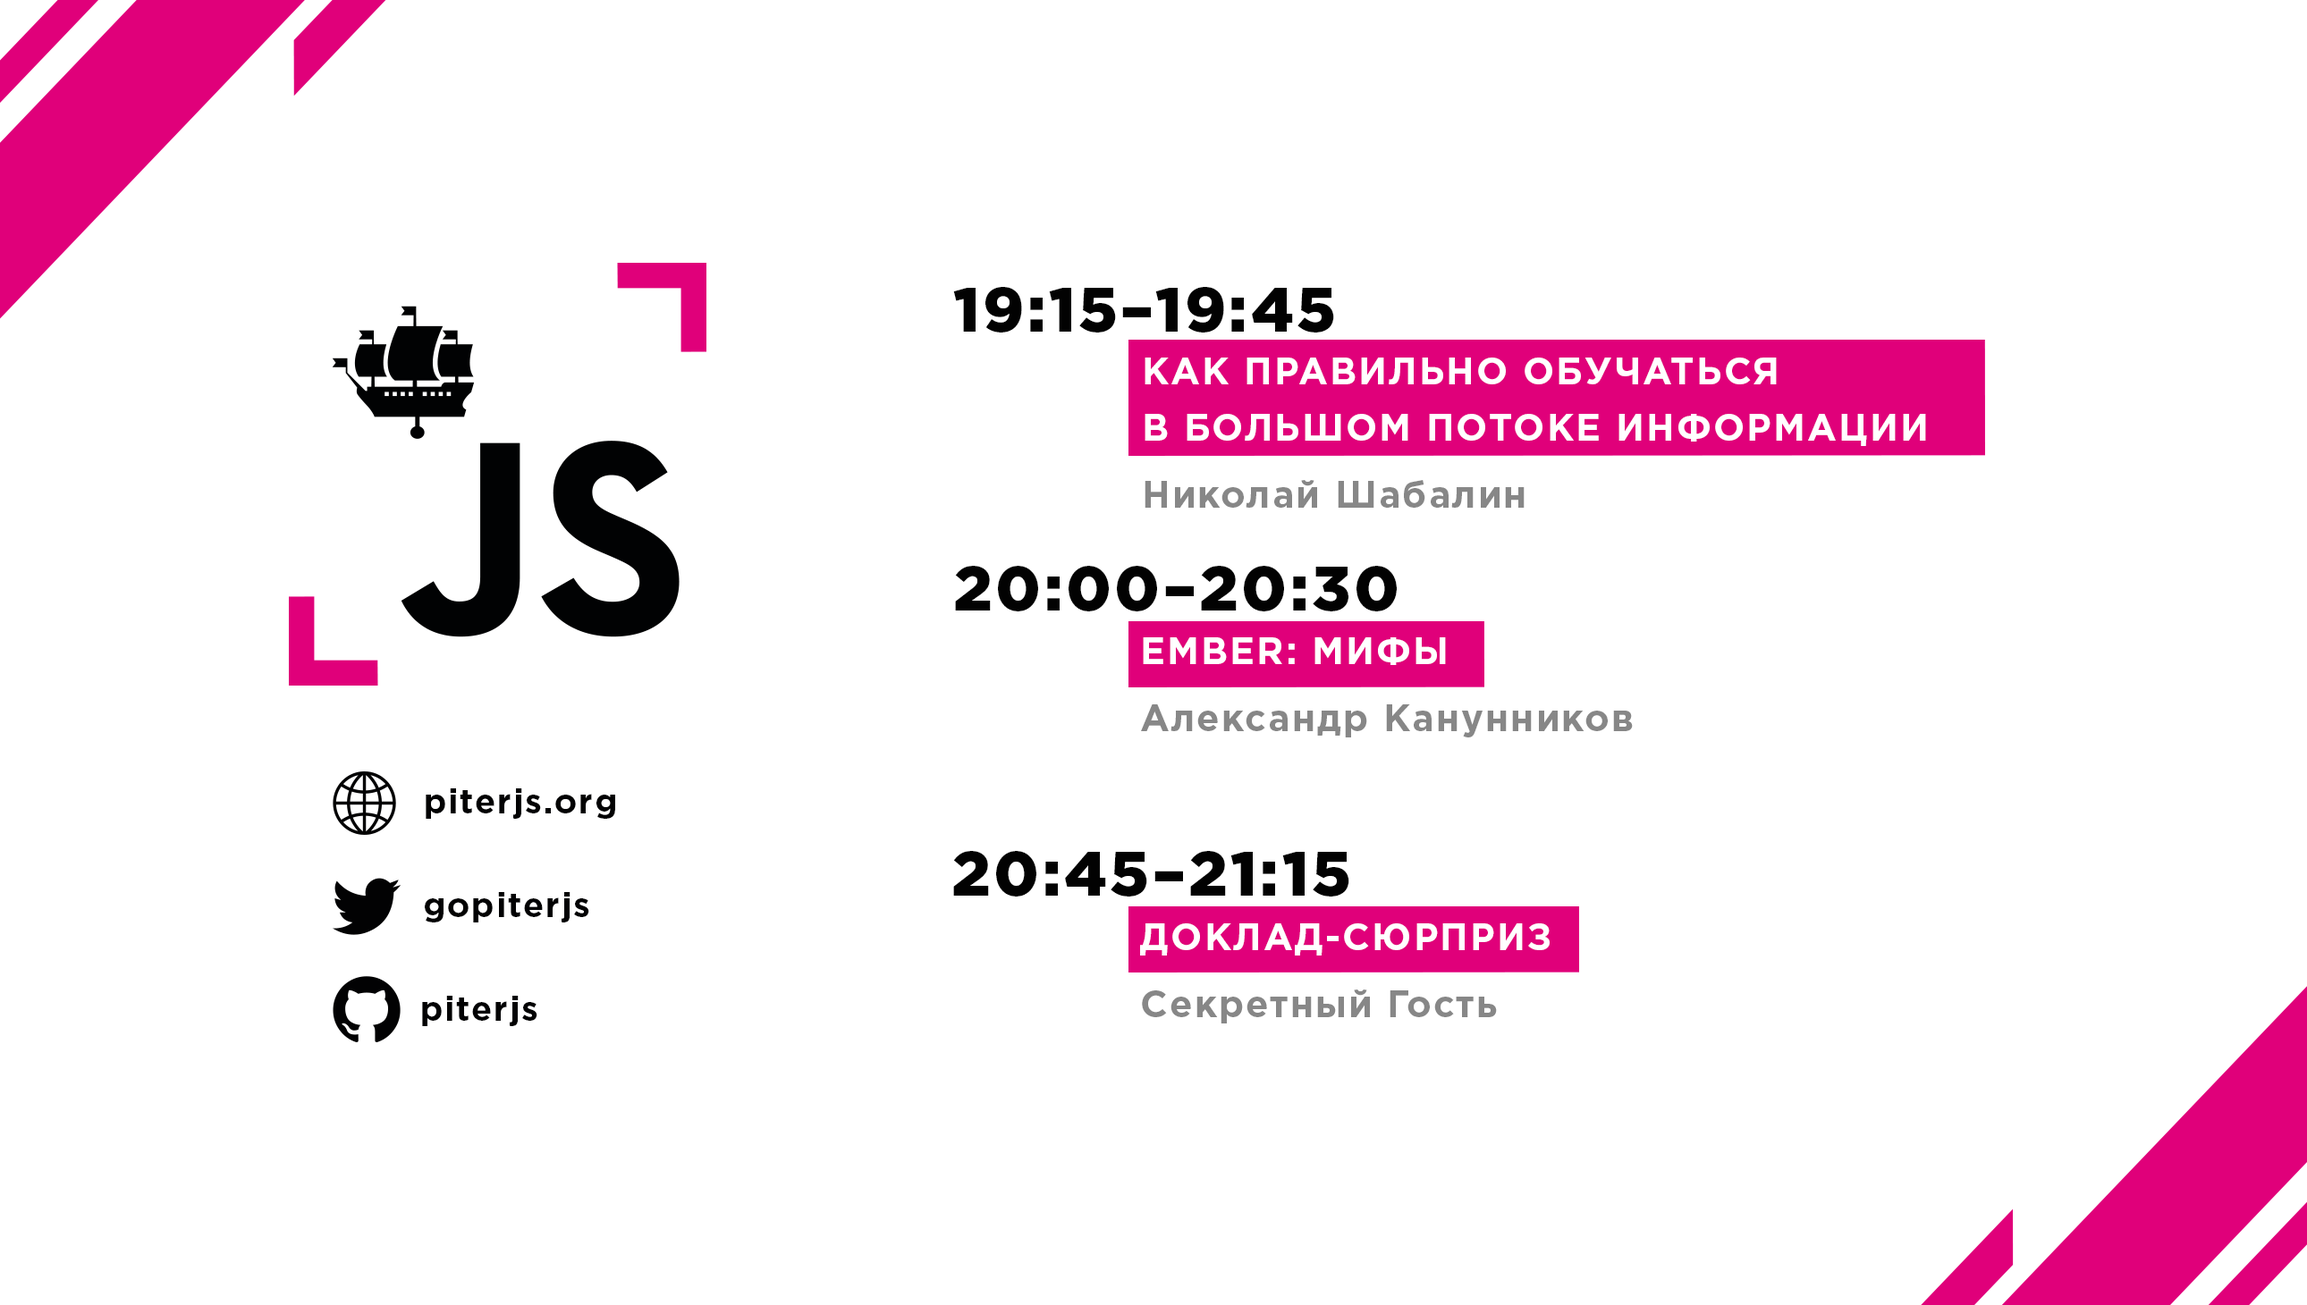
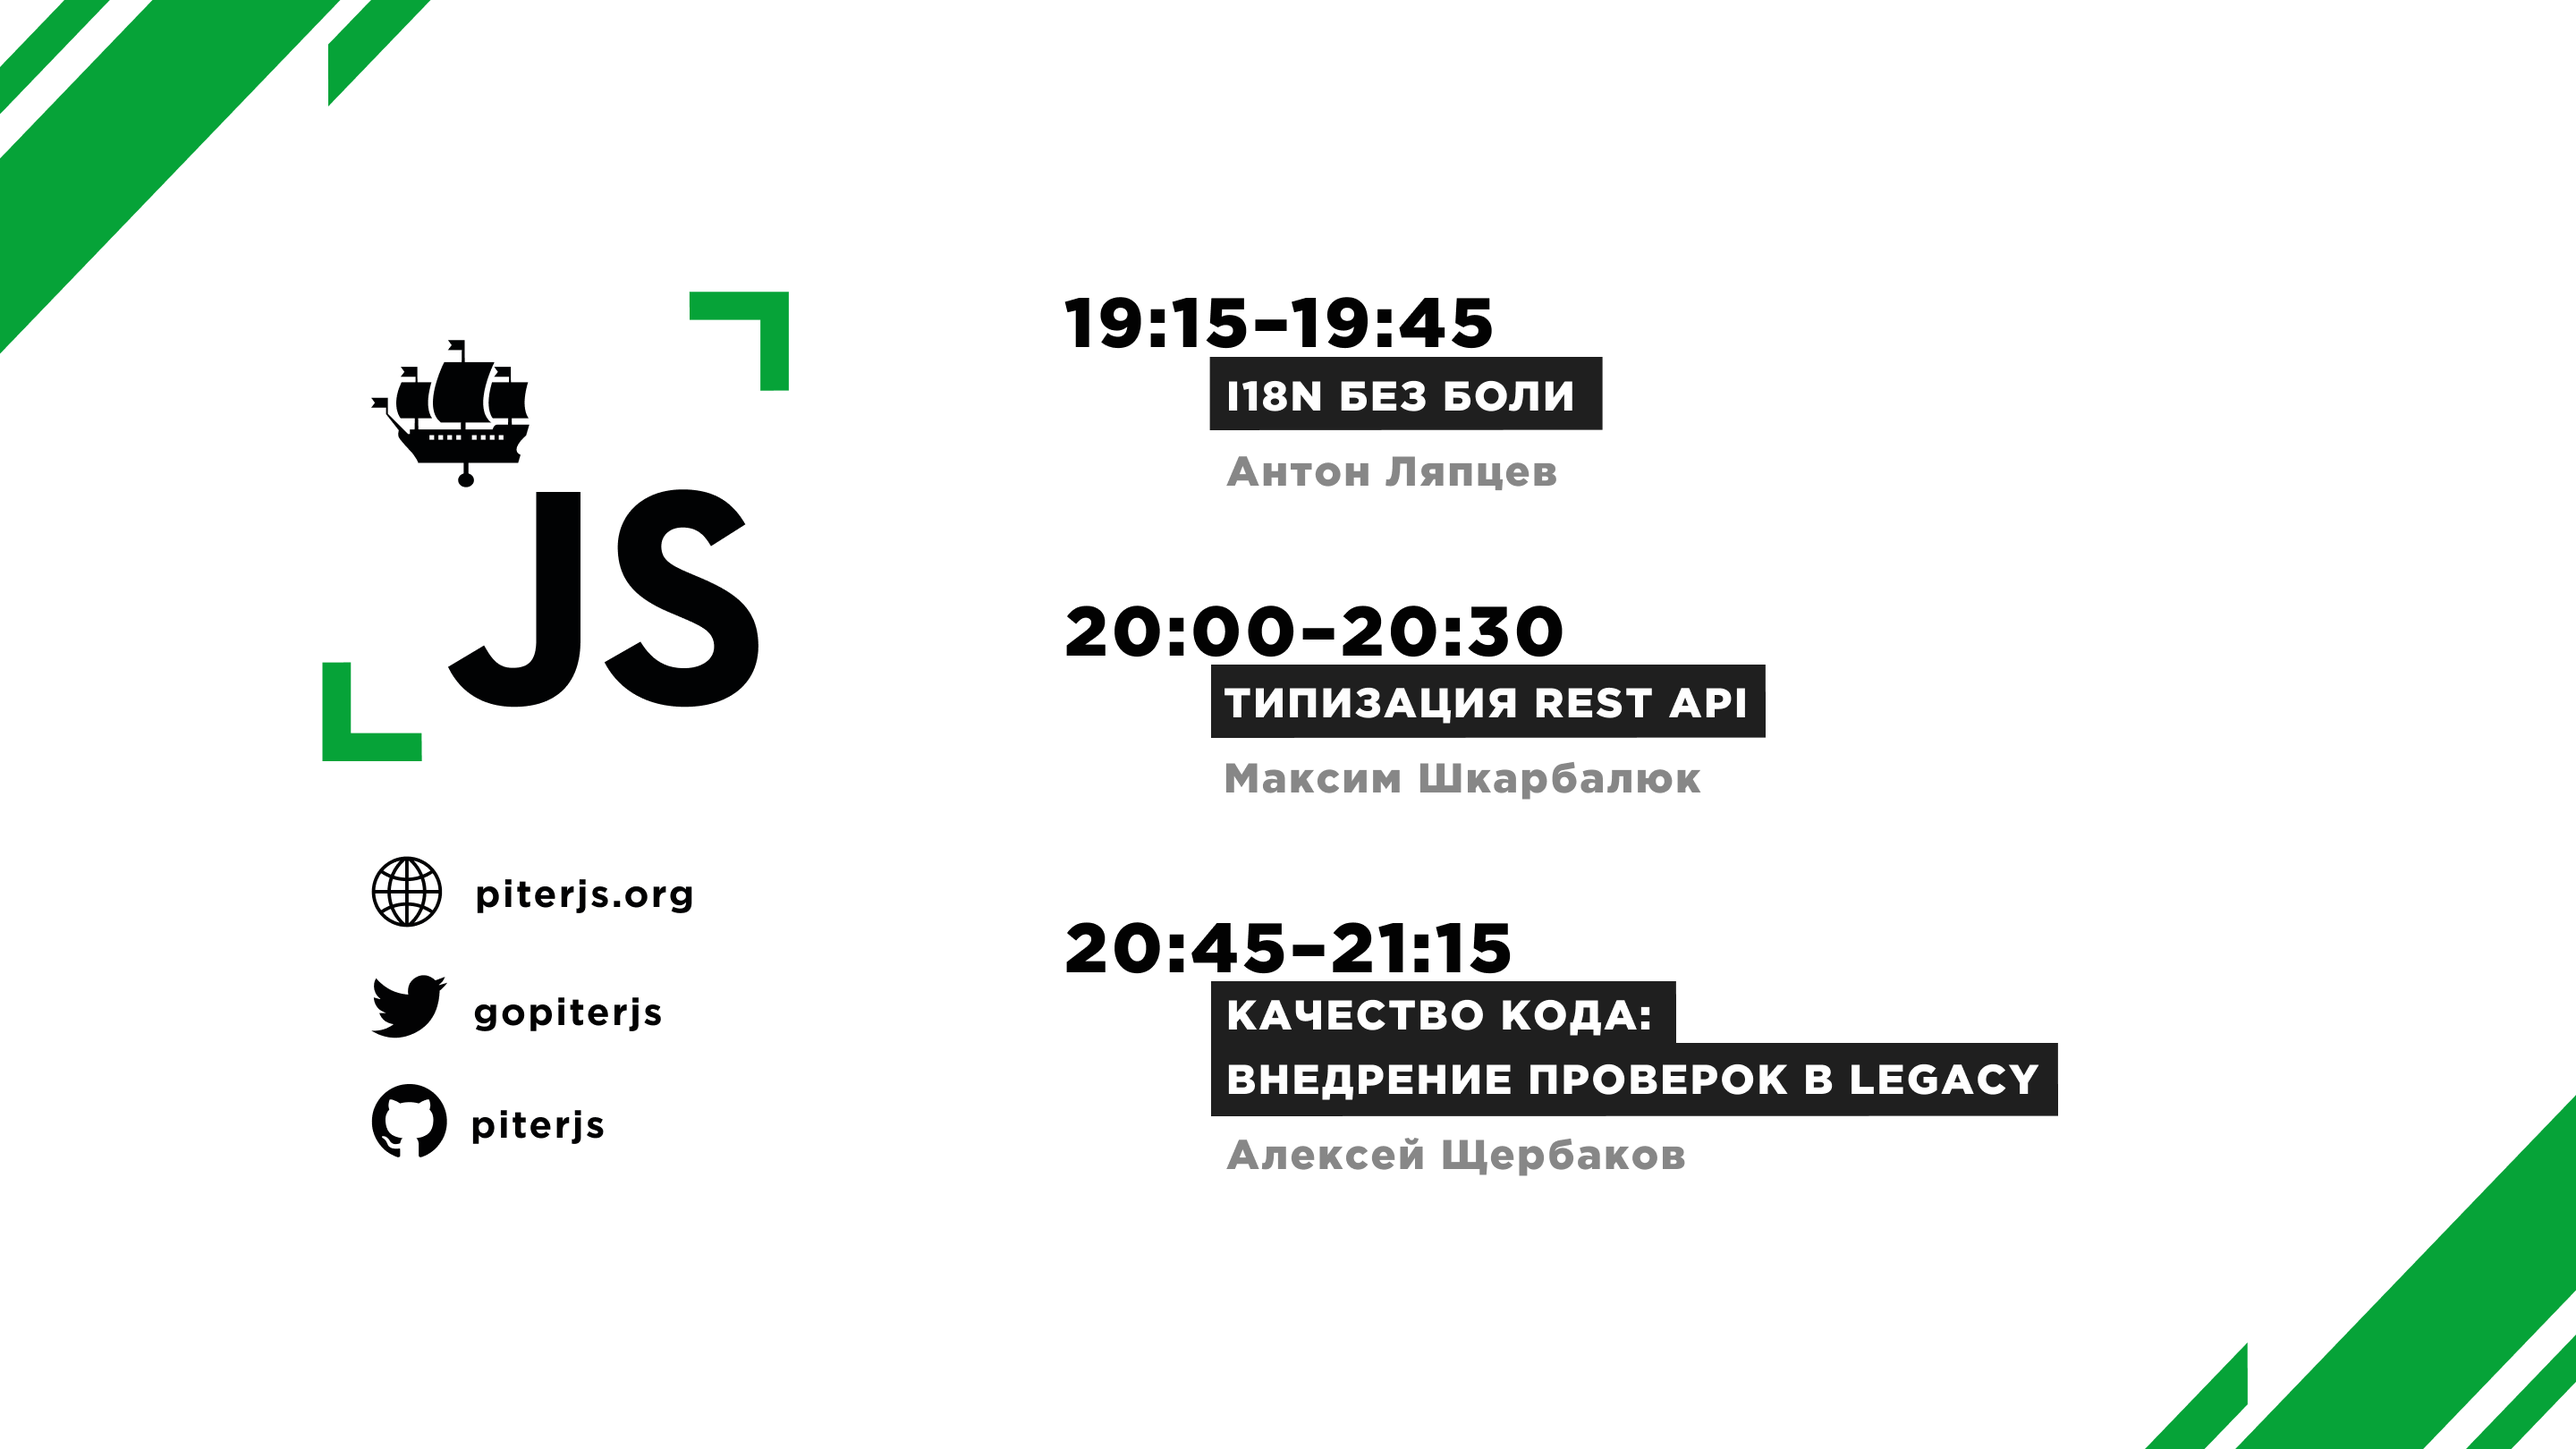
Updates

diff --git a/index.html b/index.html
@@ -21,7 +21,7 @@
         <img src="images/PiterJS-square.svg" alt="PiterJS logo" height="150">
         <p class="title">PiterJS <span class="brand">#37</span></p>
       </div>
-        <img src="images/tsystems.svg" height="50" alt="" class="image place bottom">
+        <!-- <img src="images/tsystems.svg" height="50" alt="" class="image place bottom"> -->
     </section>
 
     <section class="slide we-are">
@@ -51,7 +51,8 @@
     </section>
 
     <section class="slide">
-      <h2>Мы в <img src="images/tsystems.svg" height="50" valign="bottom" alt=""></h2>
+      <!-- <h2>Мы в <img src="images/tsystems.svg" height="50" valign="bottom" alt=""></h2> -->
+      <h2>Мы в Nexign</h2>
       <ul>
         <li class="next">Только этот этаж</li>
         <li class="next">Кофе и печеньки - только за сценой</li>
@@ -116,7 +117,7 @@
         <img src="images/PiterJS-square.svg" alt="PiterJS logo" height="150">
         <p class="title">PiterJS <span class="brand">#37</span></p>
       </div>
-        <img src="images/tsystems.svg" height="50" alt="" class="image place bottom">
+        <!-- <img src="images/tsystems.svg" height="50" alt="" class="image place bottom"> -->
     </section>
 
     <div class="progress"></div>

diff --git a/styles/piterjs.css b/styles/piterjs.css
@@ -1,5 +1,5 @@
 :root {
-  --color-brand: #e0007a;
+  --color-brand: #06a338;
   --color-white: rgba(255, 255, 255, 1);
   --color-black: #303b40;
 }
